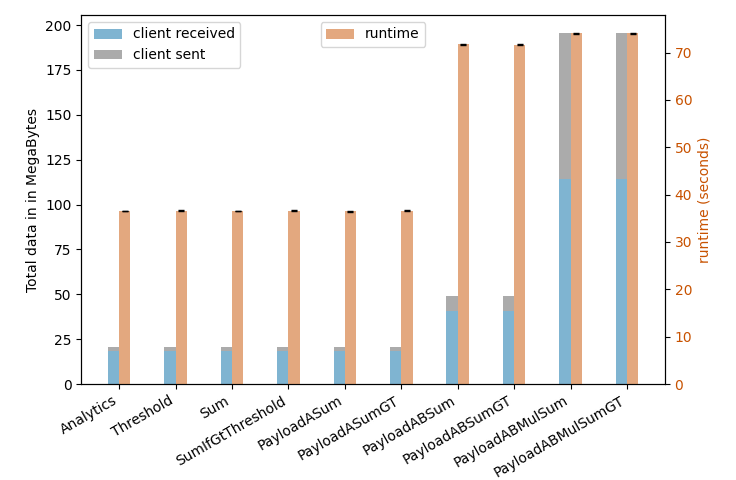
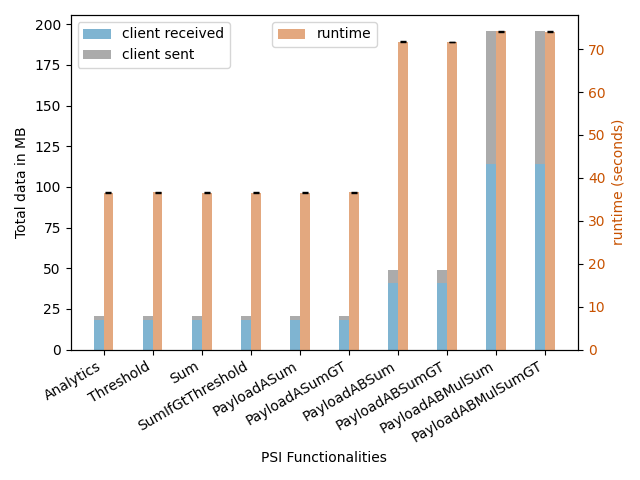
working on network plots. fixed xlabel for circuit plots.

diff --git a/plot_network.py b/plot_network.py
@@ -36,34 +36,169 @@ def get_tp(data):
     tp_se = sem(tps)
     print(f"{len(tps)} tps: mean: {tp_mean}, sd: {tp_sd}, se {tp_se}.")
 
-def plot_total_time(datalan, datalte):
+def plot_total_time(datalan, datawan, datalte):
 
     set_sizes_lan, server_means_lan, server_stds_lan, client_means_lan, client_stds_lan = \
-        get_specific_s_c_mean_sd(datalan, 'total_t', circuit=Psi_type.Analytics, 
-                                  parameter='server_neles', pfilter={'server_neles':[2**17,2**19,2**21]})
+        get_specific_s_c_mean_sd(datalan, 'total_t', server_neles=2**19, parameter='fun_type')
+    set_sizes_wan, server_means_wan, server_stds_wan, client_means_wan, client_stds_wan = \
+        get_specific_s_c_mean_sd(datawan, 'total_t', server_neles=2**19, parameter='fun_type', pfilter={'fun_type': [5, 7, 9]})
     set_sizes_lte, server_means_lte, server_stds_lte, client_means_lte, client_stds_lte = \
-        get_specific_s_c_mean_sd(datalte, 'total_t', circuit=Psi_type.Analytics,
-                                 parameter='server_neles', pfilter={'server_neles': [2**17, 2**19, 2**21]})
-    x_pos = np.arange(len(set_sizes_lan))
+        get_specific_s_c_mean_sd(datalte, 'total_t', server_neles=2**19 , parameter='fun_type', pfilter={'fun_type': [5, 7, 9]})
+    x_pos = np.array(set_sizes_lan)
+    labels = [Psi_type(i).name for i in set_sizes_lan]
     client_means_lan = client_means_lan/1e3
     client_stds_lan = client_stds_lan/1e3
+    client_means_wan = client_means_wan/1e3
+    client_stds_wan = client_stds_wan/1e3
     client_means_lte = client_means_lte/1e3
     client_stds_lte = client_stds_lte/1e3
     fig, ax = plt.subplots()
-    client_lan = ax.bar(x_pos-0.1, client_means_lan, yerr=client_stds_lan, color=tableau_c10[1], align='center', alpha=0.5, width=0.2,
-           ecolor='black', capsize=5)
-    client_lte = ax.bar(x_pos+0.1, client_means_lte, yerr=client_stds_lte, color=tableau_c10[0], align='center', alpha=0.5, width=0.2,
-           ecolor='black', capsize=5)
+    client_lan = ax.bar(x_pos-0.4, client_means_lan, yerr=client_stds_lan, color=tableau_c10[1], align='center', alpha=0.5, width=0.3,
+           ecolor='black', capsize=2)
+    client_wan = ax.bar(x_pos, client_means_wan, yerr=client_stds_wan, color=tableau_c10[0], align='center', alpha=0.5, width=0.3,
+                        ecolor='black', capsize=2)
+    client_lte = ax.bar(x_pos+0.4, client_means_lte, yerr=client_stds_lte, color=tableau_c10[2], align='center', alpha=0.5, width=0.3,
+           ecolor='black', capsize=2)
     ax.set_ylabel(f"Total time in in seconds")
     ax.set_xticks(x_pos)
-    ax.set_xticklabels(xticks_to_potencies_label(set_sizes_lan))
-    ax.set_title(
-        f"Client: Total time for Desktop-App with different networks.\nUnbalanced sets with client set size $2^{{{int(np.log2(datalan[0]['parameters']['client_neles']))}}}$ and the basic analytics circuit.\nMean over {len(datalan[0])-1} runs with std-error.")
+    # ax.set_title(
+    #     f"Client: Total time for Desktop-App with different networks.\nUnbalanced sets with client set size $2^{{{int(np.log2(datalan[0]['parameters']['client_neles']))}}}$ and the basic analytics circuit.\nMean over {len(datalan[0])-1} runs with std-error.")
     ax.yaxis.grid(True)
-    ax.set_xlabel(f"Server set sizes")
-    ax.legend((client_lan[0], client_lte[0]),('LAN', 'LTE'))
+    ax.set_xlabel('PSI Functionalities')
+    ax.set_xticklabels(labels)
+    ax.legend((client_lan[0], client_wan[0], client_lte[0]),('LAN','WAN','LTE'))
 
+    fig.autofmt_xdate()
     plt.tight_layout()
+    plt.show()
+
+def table_time_phases(data):
+    table_data = [['Phase'], ['hashing'],['OPRF'], ['Poly int'],
+                  ['Poly transm'], ['Poly eval'], ['Circuit'],['Waiting']]
+
+    c_total_t_means = []
+    c_hashing_t_means = []
+    c_oprf_t_means = []
+    c_poly_t_means = []
+    c_aby_t_means = []
+
+    s_total_t_means = []
+    s_hashing_t_means = []
+    s_oprf_t_means = []
+    s_poly_t_means = []
+    s_poly_trans_t_means = []
+    s_aby_t_means = []
+    
+    for ft in [5]:  # , 7, 9
+        for b in data:
+            if b['parameters']['server_neles'] != 2**19 or b['parameters']['fun_type'] != ft:
+                continue
+            else:
+                c_total_t = []
+                c_hashing_t = []
+                c_oprf_t = []
+                c_poly_t = []
+                c_aby_t = []
+
+                s_total_t = []
+                s_hashing_t = []
+                s_oprf_t = []
+                s_poly_t = []
+                s_poly_trans_t = []
+                s_aby_t = []
+                for r in range(len(b)-1):
+                    repeat_c = b[r]['c_output']
+                    repeat_s = b[r]['s_output']
+                    c_total_t.append(repeat_c['total_t'])
+                    c_hashing_t.append(repeat_c['hashing_t'])
+                    c_oprf_t.append(repeat_c['oprf_t'])
+                    c_poly_t.append(repeat_c['poly_t'])
+                    c_aby_t.append(repeat_c['aby_total_t'])
+
+                    s_total_t.append(repeat_s['total_t'])
+                    s_hashing_t.append(repeat_s['hashing_t'])
+                    s_oprf_t.append(repeat_s['oprf_t'])
+                    s_poly_t.append(repeat_s['poly_t'])
+                    s_poly_trans_t.append(repeat_s['poly_trans_t'])
+                    s_aby_t.append(repeat_s['aby_total_t'])
+
+                c_total_t_means.append(np.mean(c_total_t))
+                c_hashing_t_means.append(np.mean(c_hashing_t))
+                c_oprf_t_means.append(np.mean(c_oprf_t))
+                c_poly_t_means.append(np.mean(c_poly_t))
+                c_aby_t_means.append(np.mean(c_aby_t))
+
+                s_total_t_means.append(np.mean(s_total_t))
+                s_hashing_t_means.append(np.mean(s_hashing_t))
+                s_oprf_t_means.append(np.mean(s_oprf_t))
+                s_poly_t_means.append(np.mean(s_poly_t))
+                s_poly_trans_t_means.append(np.mean(s_poly_trans_t))
+                s_aby_t_means.append(np.mean(s_aby_t))
+
+
+                # aby_d_pct = float(aby_d/total_d)*100.0
+                # oprf_d_pct = float(oprf_d/total_d)*100.0 
+                # print("There is a bug for the oprf_d value for AB circuits. Manual fix: count the data twice for oprf_d")
+                # poly_d_pct = float(poly_d/total_d)*100.0
+                # column_val = np.array([ft*1e6, oprf_d, poly_d, aby_d])
+                # column_val = column_val/1e6
+                # column_pct = [ft, oprf_d_pct, poly_d_pct, aby_d_pct]
+                # for i in range(len(table_data)):
+                #     table_data[i].append(f"{column_val[i]:.1f} ({column_pct[i]:.2f}\%)")
+    for i in range(len(s_total_t_means)):
+        print(c_total_t_means[i])
+
+def plot_total_data(datalan, datawan, datalte):
+
+    set_sizes_r_lan, server_means_r_lan, _, client_means_r_lan, _ = \
+        get_specific_s_c_mean_sd(
+            datalan, 'total_d_rs',rs='r', server_neles=2**19, parameter='fun_type')
+    set_sizes_s_lan, server_means_s_lan, _, client_means_s_lan, _ = \
+        get_specific_s_c_mean_sd(
+            datalan, 'total_d_rs', rs='s', server_neles=2**19, parameter='fun_type')
+    
+    set_sizes_r_wan, server_means_r_wan, _, client_means_r_wan, _ = \
+        get_specific_s_c_mean_sd(datawan, 'total_d_rs', rs='r', server_neles=2 **
+                                 19, parameter='fun_type', pfilter={'fun_type': [5, 7, 9]})
+    set_sizes_s_wan, server_means_s_wan, _, client_means_s_wan, _ = \
+        get_specific_s_c_mean_sd(datawan, 'total_d_rs', rs='s', server_neles=2 **
+                                 19, parameter='fun_type', pfilter={'fun_type': [5, 7, 9]})
+
+    set_sizes_r_lte, server_means_r_lte, _, client_means_r_lte, _ = \
+        get_specific_s_c_mean_sd(datalte, 'total_d_rs', rs='r', server_neles=2 **
+                                 19, parameter='fun_type', pfilter={'fun_type': [5, 7, 9]})
+    set_sizes_s_lte, server_means_s_lte, _, client_means_s_lte, _ = \
+        get_specific_s_c_mean_sd(datalte, 'total_d_rs', rs='s', server_neles=2 **
+                                 19, parameter='fun_type', pfilter={'fun_type': [5, 7, 9]})
+
+    x_pos = np.array(set_sizes_r_lan)
+    labels = [Psi_type(i).name for i in set_sizes_r_lan]
+    client_means_r_lan = client_means_r_lan/1e6
+    client_means_r_wan = client_means_r_wan/1e6
+    client_means_r_lte = client_means_r_lte/1e6
+    client_means_s_lan = client_means_s_lan/1e6
+    client_means_s_wan = client_means_s_wan/1e6
+    client_means_s_lte = client_means_s_lte/1e6
+    fig, ax = plt.subplots()
+    client_r_lan = ax.bar(x_pos-0.2, client_means_r_lan, color=tableau_c10[0], align='center', alpha=0.5,width=0.2)
+    client_s_lan = ax.bar(x_pos-0.2, client_means_s_lan, color=tableau_c10[4], align='center', alpha=0.5,width=0.2, bottom=client_means_r_lan)
+
+    client_r_wan = ax.bar(x_pos, client_means_r_wan, color=tableau_c10[0], align='center', alpha=0.5,width=0.2)
+    client_s_wan = ax.bar(x_pos, client_means_s_wan, color=tableau_c10[4], align='center', alpha=0.5,width=0.2,bottom=client_means_r_wan)
+    
+    client_r_lte = ax.bar(x_pos+0.2, client_means_r_lte, color=tableau_c10[0], align='center', alpha=0.5,width=0.2)
+    client_s_lte = ax.bar(x_pos+0.2, client_means_s_lte, color=tableau_c10[4], align='center', alpha=0.5,width=0.2, bottom=client_means_r_lte)
+    ax.set_ylabel(f"Total time in in seconds")
+    ax.set_xticks(x_pos)
+    # ax.set_title(
+    #     f"Client: Total time for Desktop-App with different networks.\nUnbalanced sets with client set size $2^{{{int(np.log2(datalan[0]['parameters']['client_neles']))}}}$ and the basic analytics circuit.\nMean over {len(datalan[0])-1} runs with std-error.")
+    ax.yaxis.grid(True)
+    ax.set_xlabel('PSI Function Circuits')
+    ax.set_xticklabels(labels)
+    # ax.legend((client_r_lan[0], client_r_wan[0],
+    #            client_r_lte[0]), ('LAN', 'WAN', 'LTE'))
+    plt.tight_layout()
+    fig.autofmt_xdate()
     plt.show()
 
 
@@ -163,9 +298,10 @@ if __name__ == '__main__':
     ap.add_argument('--all', action='store_true')
     ap.add_argument('--rtts', action='store_true')
     ap.add_argument('--tps', action='store_true')
-    ap.add_argument('--total_t', action='store_true')
+    ap.add_argument('--time', action='store_true')
     ap.add_argument('--aby_t', action='store_true')
     ap.add_argument('--pies_t', action='store_true')
+    ap.add_argument('--phases_t', action='store_true')
     args = ap.parse_args()
     
     if args.rtts:
@@ -174,9 +310,19 @@ if __name__ == '__main__':
     elif args.tps:
         batch = load_batch('NetworkDebugging_NewRTTs_LTE')
         get_tp(batch)
-    else:
+    elif args.phases_t:
+        batch_10_LAN = load_batch('Circuits_Unbalanced10', important_parameters=[
+                                  'server_neles', 'fun_type'])
+        batch_10_WAN = load_batch('Network1019_WAN')
+        batch_10_LTE = load_batch('Network1019_LTE')
+        table_time_phases(batch_10_LAN)
+    elif args.time:
 
-        batch_10_LAN = load_batch('Unbalanced10AnalyticsDA_2')
-        batch_10_LTE = load_batch('NetworkLTE10AnalyticsDA_1')
+        batch_10_LAN = load_batch('Circuits_Unbalanced10',important_parameters=['server_neles', 'fun_type'])
+        batch_10_WAN = load_batch('Network1019_WAN')
+        batch_10_LTE = load_batch('Network1019_LTE')
         
-        plot_total_time(batch_10_LAN, batch_10_LTE)
+        plot_total_time(batch_10_LAN, batch_10_WAN, batch_10_LTE)
+        # plot_total_data(batch_10_LAN,batch_10_WAN,batch_10_LTE)
+    else:
+        print('nothing to do...')

diff --git a/plot_unbalanced.py b/plot_unbalanced.py
@@ -522,8 +522,9 @@ def plot_psi_types_dt(data):
 
     x_pos = np.array(set_sizes)
     fig, ax1 = plt.subplots()
-    ax1.set_xlabel('PSI Function Circuits')
-    ax1.set_ylabel('Total data in in MegaBytes')
+
+    ax1.set_ylabel('Total data in MB')
+    ax1.set_xlabel('PSI Functionalities')
     ax1.set_xticks(x_pos)
     # ax1.set_title(
     #     f"Client: Time and data for Desktop-App for different circuits. Unbalanced sets with client set size $2^{{{int(np.log2(data[0]['parameters']['client_neles']))}}}$\nTimes are the mean over {len(data[0])-1} runs with std-error.")
@@ -540,8 +541,9 @@ def plot_psi_types_dt(data):
     ax1.legend((client_r[0], client_s[0], client_t[0]),
                ('client received', 'client sent'))
     ax2.legend(['runtime'], loc=9)
-    fig.tight_layout()
+
     fig.autofmt_xdate()
+    fig.tight_layout()
     plt.show()
 
 
